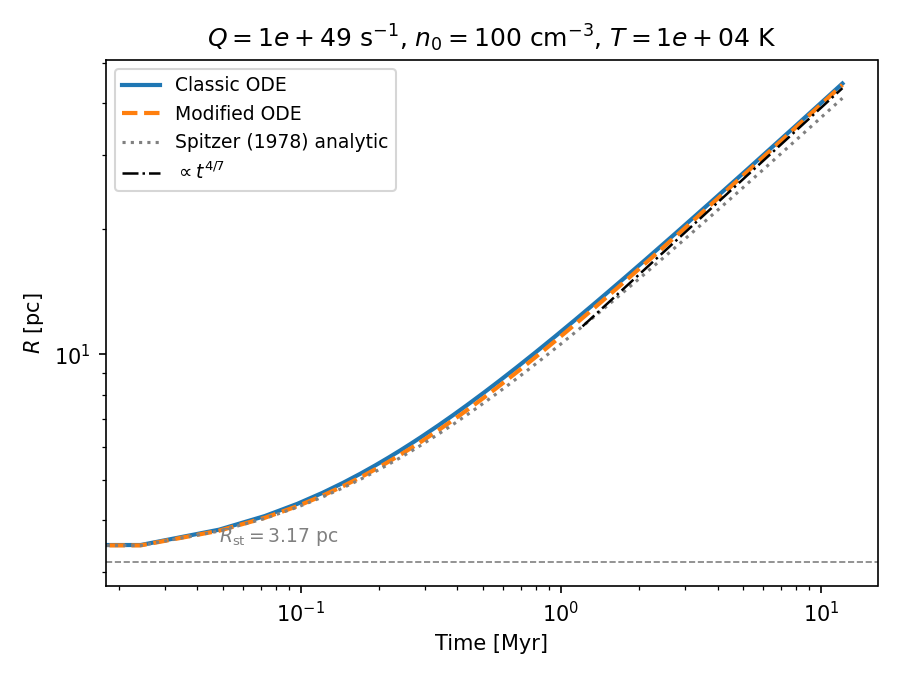
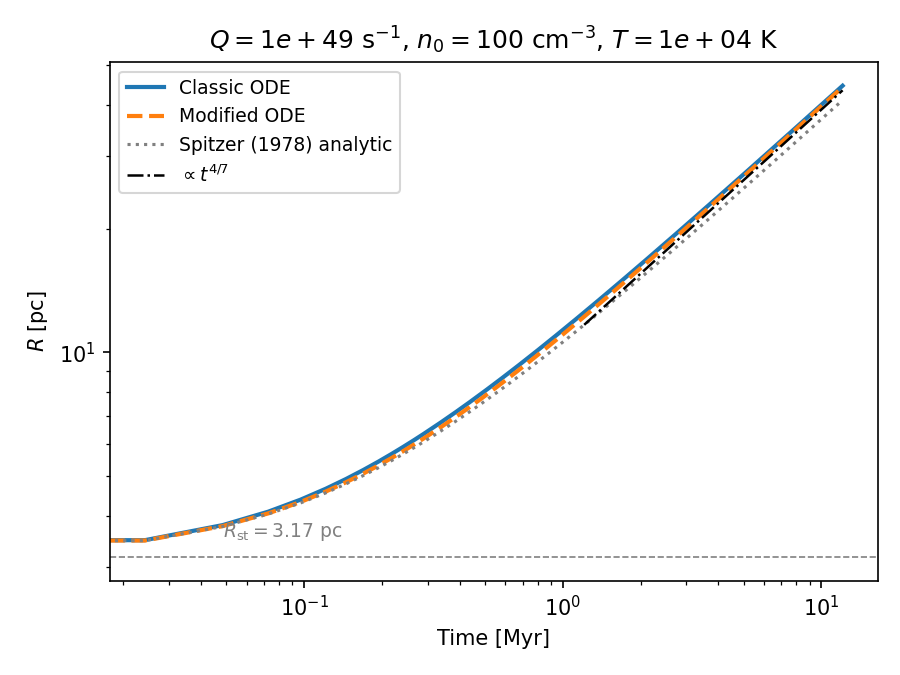
Save figures as both PDF and PNG; use PDF in LaTeX, PNG in README

diff --git a/paper/hii_expansion.tex b/paper/hii_expansion.tex
@@ -398,7 +398,7 @@ $R\propto t^{4/7}$ slope (dotted).
 
 \begin{figure}[ht]
   \centering
-  \includegraphics[width=\linewidth]{../figures/constant_density.png}
+  \includegraphics[width=\linewidth]{../figures/constant_density.pdf}
   \caption{HII region expansion in a uniform medium ($n_0=100$ cm$^{-3}$).
     Solid: classic thin-shell ODE; dashed: Spitzer (1978) analytic solution;
     dotted: $R\propto t^{4/7}$ reference.}
@@ -424,7 +424,7 @@ shell forms initially and the modified solution is not shown.
 
 \begin{figure}[ht]
   \centering
-  \includegraphics[width=\linewidth]{../figures/powerlaw_density.png}
+  \includegraphics[width=\linewidth]{../figures/powerlaw_density.pdf}
   \caption{HII region expansion for power-law density profiles
     $n(r)=n_0(r_0/r)^w$.  Reference slopes $t^{4/(7-2w)}$ from
     \citet{FrancoEtal1990} are overlaid.}
@@ -441,7 +441,7 @@ density-bounded (Table~\ref{tab:cored}) and are excluded.
 
 \begin{figure}[ht]
   \centering
-  \includegraphics[width=\linewidth]{../figures/cored_density.png}
+  \includegraphics[width=\linewidth]{../figures/cored_density.pdf}
   \caption{HII region expansion for cored profiles
     $n(r)=n_0/[1+(r/r_0)^w]$.  Density-bounded cases are annotated.}
   \label{fig:cored}
@@ -461,7 +461,7 @@ mass transfer to the ionized interior.
 
 \begin{figure}[ht]
   \centering
-  \includegraphics[width=\linewidth]{../figures/classic_vs_modified.png}
+  \includegraphics[width=\linewidth]{../figures/classic_vs_modified.pdf}
   \caption{Comparison of the classic (solid, blue) and modified (dashed,
     orange) thin-shell ODE solutions for uniform density.
     Top to bottom: shell radius $R(t)$, shell velocity $v(t)$, shell

diff --git a/python/plot_constant_density.py b/python/plot_constant_density.py
@@ -87,6 +87,8 @@ ax.set_title(
 ax.legend(fontsize=9)
 fig.tight_layout()
 
-out = Path(__file__).parent.parent / "figures" / "constant_density.pdf"
-fig.savefig(out)
-print(f"Saved {out}")
+fig_dir = Path(__file__).parent.parent / "figures"
+for ext in ("pdf", "png"):
+    out = fig_dir / f"constant_density.{ext}"
+    fig.savefig(out, dpi=150 if ext == "png" else None)
+    print(f"Saved {out}")

diff --git a/python/plot_classic_vs_modified.py b/python/plot_classic_vs_modified.py
@@ -106,6 +106,8 @@ for ax in axes:
 
 fig.tight_layout()
 
-out = Path(__file__).parent.parent / "figures" / "classic_vs_modified.pdf"
-fig.savefig(out)
-print(f"Saved {out}")
+fig_dir = Path(__file__).parent.parent / "figures"
+for ext in ("pdf", "png"):
+    out = fig_dir / f"classic_vs_modified.{ext}"
+    fig.savefig(out, dpi=150 if ext == "png" else None)
+    print(f"Saved {out}")

diff --git a/python/plot_cored_profile.py b/python/plot_cored_profile.py
@@ -132,6 +132,8 @@ fig.suptitle(
 )
 fig.tight_layout()
 
-out = Path(__file__).parent.parent / "figures" / "cored_density.png"
-fig.savefig(out, dpi=150)
-print(f"Saved {out}")
+fig_dir = Path(__file__).parent.parent / "figures"
+for ext in ("pdf", "png"):
+    out = fig_dir / f"cored_density.{ext}"
+    fig.savefig(out, dpi=150 if ext == "png" else None)
+    print(f"Saved {out}")

diff --git a/python/plot_powerlaw.py b/python/plot_powerlaw.py
@@ -119,6 +119,8 @@ ax.text(
 
 fig.tight_layout()
 
-out = Path(__file__).parent.parent / "figures" / "powerlaw_density.pdf"
-fig.savefig(out)
-print(f"Saved {out}")
+fig_dir = Path(__file__).parent.parent / "figures"
+for ext in ("pdf", "png"):
+    out = fig_dir / f"powerlaw_density.{ext}"
+    fig.savefig(out, dpi=150 if ext == "png" else None)
+    print(f"Saved {out}")
